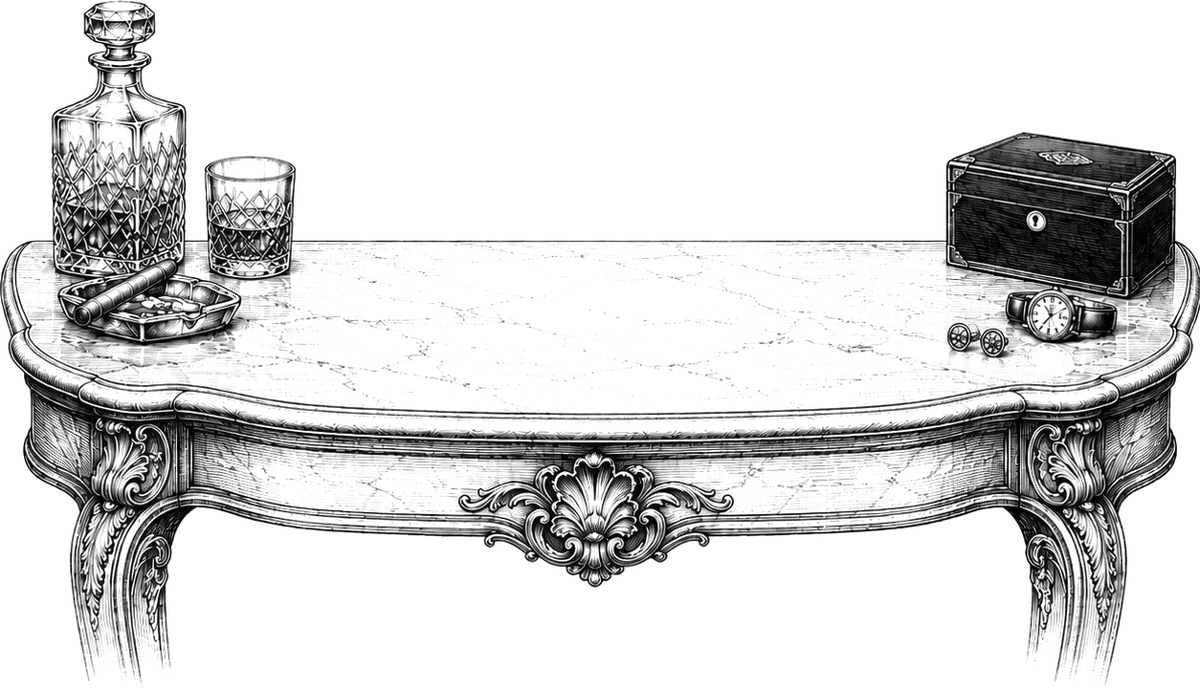
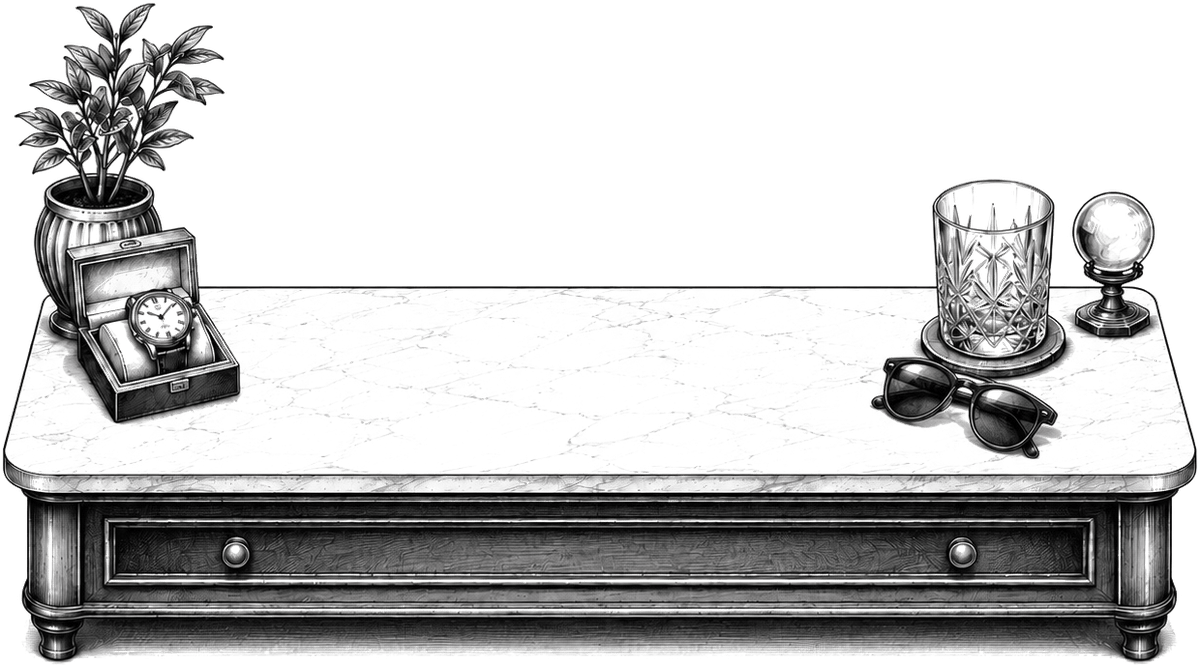
Echange images riche/grande fortune + swap leurs positions
Les images level_5.png et level_6.png echangees.
Les positions CSS .t5 et .t6 echangees aussi -> chaque image conserve sa position originale, juste sur l'autre statut.

https://claude.ai/code/session_01K5SJ7eQcxdTnekDPP3umYe

diff --git a/src/LastCoin.tsx b/src/LastCoin.tsx
@@ -1595,10 +1595,10 @@ const CSS = `
 .lc-table.t3{bottom:-54%;width:174%;}
 /* Aise : encore plus grande */
 .lc-table.t4{bottom:-50%;width:190%;}
-/* Riche : descend encore */
-.lc-table.t5{bottom:-50%;width:174%;}
-/* Grande fortune : plus grande + remonte un peu */
-.lc-table.t6{bottom:-33%;width:174%;}
+/* Riche : utilise l'ancienne image grande fortune, garde son ancienne position */
+.lc-table.t5{bottom:-33%;width:174%;}
+/* Grande fortune : utilise l'ancienne image riche, garde son ancienne position */
+.lc-table.t6{bottom:-50%;width:174%;}
 /* Empire : plus grande + descend */
 .lc-table.t7{bottom:-54%;width:178%;}
 /* Bascule seche gauche-droite quand le levier est tire */